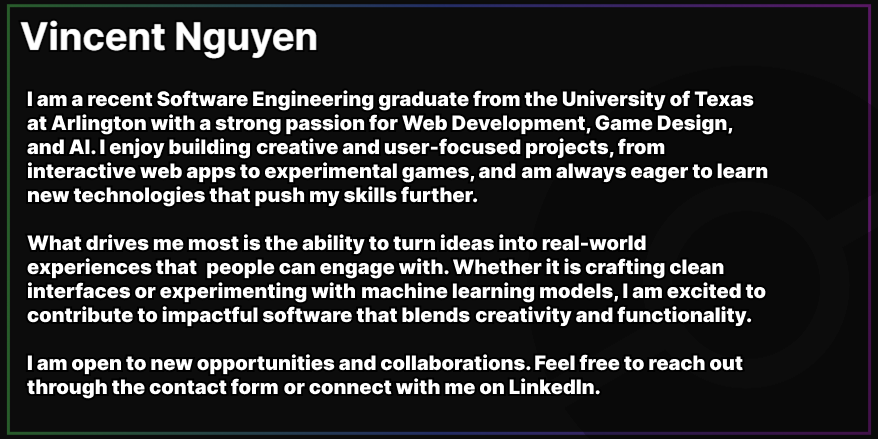
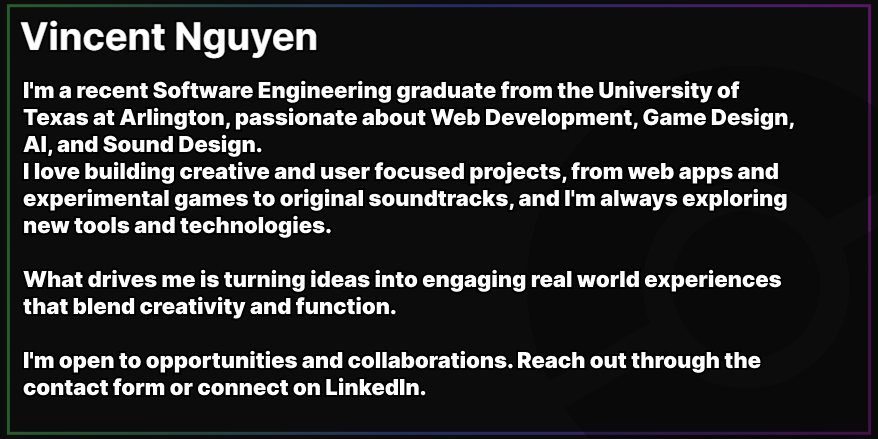
updated trainer card again, added new title

Changed region(s): [[0.0, 0.1777, 0.9226, 0.7403], [0.0, 0.7995, 0.861, 0.918]]

diff --git a/src/components/Home.jsx b/src/components/Home.jsx
@@ -13,7 +13,7 @@ export default function Home() {
                     <h1 className="text-5xl sm:text-7xl font-bold mb-1 bg-gradient-to-r from-green-500 via-indigo-500 to-purple-500 text-transparent bg-clip-text hover:scale-110 duration-200">
                         VINCENT NGUYEN
                     </h1>
-                    <p className="text-2xl font-bold text-white">Software Engineer, Web Developer & Game Designer</p>
+                    <p className="text-2xl font-bold text-white">Software Engineer, Web Developer, Game Developer & Sound Designer</p>
                     <div className="flex flex-wrap items-center text-center justify-center mt-2 gap-2">
                         <a href="https://www.linkedin.com/in/vincent-huu-nguyen/"
                             target="_blank"
